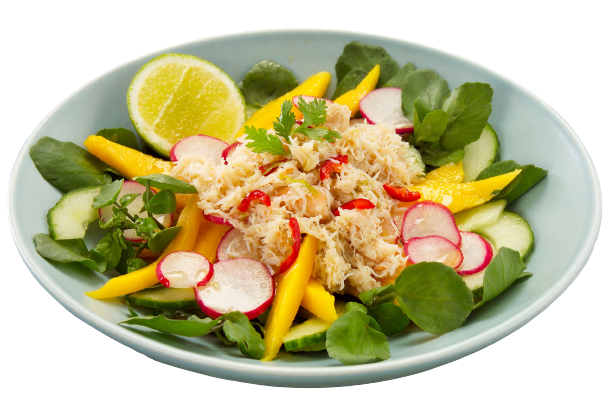
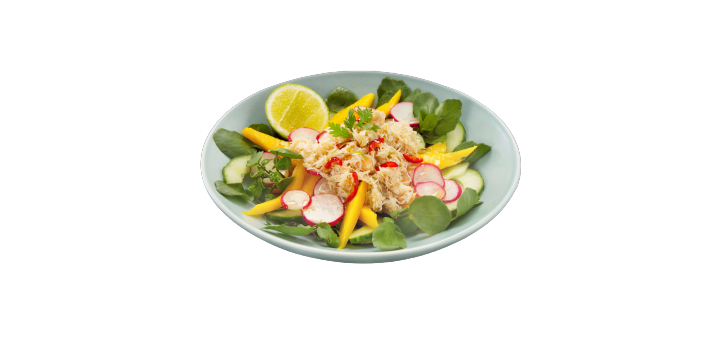
adding the best sellers

diff --git a/index.html b/index.html
@@ -33,12 +33,12 @@
                                     Menu
                                 </a>
                                 <div class="dropdown-menu" aria-labelledby="navbarDropdown">
-                                    <a class="dropdown-item" href="#best-sellers">Best Sellers</a>
+                                    <a class="dropdown-item" href="#best-seller">Best Sellers</a>
                                     <a class="dropdown-item" href="#menu">Menu</a>
                                 </div>
                             </li>
                             <li class="nav-item">
-                                <a class="nav-link" href="#menu">Services</a>
+                                <a class="nav-link" href="#services">Services</a>
                             </li>
                             <li class="nav-item">
                                 <a class="nav-link" href="#gallery">Gallery</a>
@@ -92,12 +92,11 @@
         </section>
         <section class="best-seller" id="best-seller">
             <div class="heading">
-                <!-- <img src="./img/heading-img.png" alt="heading"> -->
                 <h3>Best Seller</h3>
             </div>
         
             <div class="best-seller-item">
-                <img src="./img/C&MSalad.png" alt="Best Seller Item">
+                <img src="./img/C&MSalad.png" alt="Best Seller Item" style="width: 400px; height: 350px;">
                 <div class="content">
                     <h3>Crab and Mango Salad</h3>
                     <p>
@@ -105,16 +104,27 @@
                     </p>
                 </div>
             </div>
+            <div class="best-seller-item">
+                <img src="./img/carbonarapic.png" alt="Best Seller Item" style="width: 400px; height: 350px;">
+                <div class="content">
+                    <h3>Carbonara</h3>
+                    <p>
+                        A dish full of rich and creamy pasta like no other. Every bite is a decadent symphony of flavors and textures.
+                    </p>
+                </div>
+            </div>
+            <div class="best-seller-item">
+                <img src="./img/pork sinusopic.png" alt="Best Seller Item" style="width: 400px; height: 350px;">
+                <div class="content">
+                    <h3>Pork Sinuso</h3>
+                    <p>
+                        It's a dish that celebrates the bold flavors of Filipino Cuisine, featuring succulent pork marinated in a zesty blend of spice, cooked to perfection and topped with a fiery chili sauce.
+                    </p>
+                </div>
+            </div>
         </section>
     </div>
 
-    
-    <div class="heading">
-        <!-- <img src="./img/heading-img.png" alt="heading"> -->
-        <h3>Our Location</h3>
-    <div class="google-maps">
-        <iframe src="https://www.google.com/maps/embed?pb=!1m18!1m12!1m3!1d477.45895394978163!2d123.24493111124609!3d9.2804865832093!2m3!1f0!2f0!3f0!3m2!1i1024!2i768!4f13.1!3m3!1m2!1s0x33ab6781efe165eb%3A0x8016aad02ad83de3!2sThe%20SUMMERHOUSE%20Cafe!5e1!3m2!1sen!2sph!4v1699082445928!5m2!1sen!2sph" width="600" height="450" style="border:0;" allowfullscreen="" loading="lazy" referrerpolicy="no-referrer-when-downgrade"></iframe>
-    </div></div>
 
     <!-- menu -->
     <section class="menu" id="menu">
@@ -168,6 +178,7 @@
 
     </section>
     <!-- Services offered -->
+    <section class="services" id="services">
     <div class="facility">
         <div class="heading">
             <!-- <img src="./img/heading-img.png" alt="heading"> -->
@@ -196,7 +207,7 @@
             </div>
         </div>
     </div>
-
+    </section>
     <!-- gallery -->
     <section class="gallery" id="gallery">
         <div class="heading">

diff --git a/js/script.js b/js/script.js
@@ -1,3 +1,24 @@
+const bestSellerDropdownItem = document.querySelector('.nav-item.dropdown .nav-link.dropdown-toggle');
+const bestSellerDropdownMenu = document.querySelector('.nav-item.dropdown .dropdown-menu');
+
+// Add a click event listener to the "Best Sellers" dropdown item
+bestSellerDropdownItem.addEventListener('click', (event) => {
+    // Prevent the default behavior of the link
+    event.preventDefault();
+
+    // Get the href attribute of the "Best Sellers" dropdown item
+    const bestSellerHref = bestSellerDropdownItem.getAttribute('href');
+
+    // Scroll to the target section
+    document.querySelector(bestSellerHref).scrollIntoView({
+        behavior: 'smooth'
+    });
+
+    // Close the dropdown menu if it's open
+    if (bestSellerDropdownMenu.classList.contains('show')) {
+        bestSellerDropdownMenu.classList.remove('show');
+    }
+});
 // Get a reference to the "Home" link
 const homeLink = document.querySelector('a[href="#home"]');
 

diff --git a/css/style.css b/css/style.css
@@ -306,7 +306,7 @@ section {
     display: flex;
     justify-content: center;
     align-items: center;
-    height: 450px; /* Adjust the height as needed */
+    height: 400px; /* Adjust the height as needed */
     margin: 20px 0; /* Add margin for spacing */
     margin-bottom: 20rem;
 }
